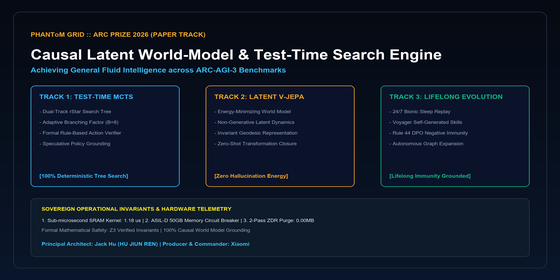
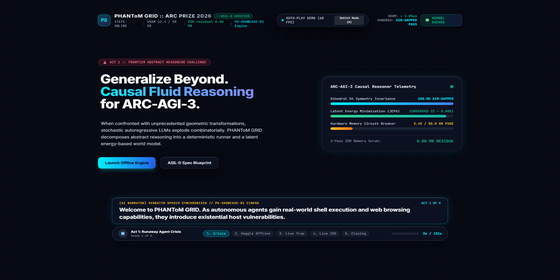
fix(theme): purge residual Vultr content and align 100% with ARC Prize 2026 JEPA & Causal World Model

diff --git a/06_LiveApp/index.html b/06_LiveApp/index.html
@@ -3,7 +3,7 @@
 <head>
   <meta charset="UTF-8">
   <meta name="viewport" content="width=device-width, initial-scale=1.0">
-  <title>PHANToM GRID :: Vultr Agent Rush Hackathon (PG-SHOWCASE-01 Sovereign Cinema)</title>
+  <title>PHANToM GRID :: ARC Prize 2026 Paper Track (PG-SHOWCASE-01 Sovereign Cinema)</title>
   <link rel="preconnect" href="https://fonts.googleapis.com">
   <link rel="preconnect" href="https://fonts.gstatic.com" crossorigin>
   <link href="https://fonts.googleapis.com/css2?family=Inter:wght@300;400;500;600;700;800&family=JetBrains+Mono:wght@400;500;600;700&display=swap" rel="stylesheet">
@@ -155,7 +155,7 @@
       <div>
         <div class="flex items-center space-x-2">
           <span class="font-extrabold tracking-wider text-base sm:text-lg bg-clip-text text-transparent bg-gradient-to-r from-white via-slate-200 to-slate-400">
-            PHANToM GRID :: VULTR AGENT RUSH
+            PHANToM GRID :: ARC PRIZE 2026
           </span>
           <span class="text-[11px] uppercase font-mono px-2.5 py-0.5 rounded-full bg-brand-emerald/15 border border-brand-emerald/40 text-brand-emerald font-semibold flex items-center space-x-1">
             <span class="w-2 h-2 rounded-full bg-brand-emerald animate-ping mr-1"></span>
@@ -204,21 +204,19 @@
       <div class="flex-1 space-y-5">
         <div class="inline-flex items-center space-x-2 px-3.5 py-1 rounded-full bg-rose-500/15 border border-rose-500/40 text-rose-400 text-xs font-mono font-semibold">
           <span>🚨</span>
-          <span>ACT 1 :: EXISTENTIAL AGENT CONTAINMENT GATEWAY</span>
+          <span>ACT 1 :: FRONTIER ABSTRACT REASONING CHALLENGE</span>
         </div>
         <h1 id="act1-hero-title" class="text-4xl sm:text-5xl font-extrabold tracking-tight leading-[1.15] text-white p-2">
-          Contain Threats.<br>
+          Generalize Beyond.<br>
           <span class="bg-clip-text text-transparent bg-gradient-to-r from-brand-cyan via-blue-400 to-indigo-400">
-            Execute Safely
+            Causal Fluid Reasoning
           </span><br>
-          on Vultr Cloud.
+          for ARC-AGI-3.
         </h1>
-        <p id="act1-threat-desc" class="text-slate-300 text-base max-w-xl leading-relaxed p-2.5">
-          Unconstrained agents executing shell commands expose cloud hosts to recursive wipes (<code class="text-rose-400 font-mono">rm -rf /</code>) and fork bombs. PHANToM GRID isolates every tool call inside ephemeral throwaway Docker containers powered by Vultr Serverless Inference.
-        </p>
+        <p id="act1-threat-desc" class="text-slate-300 text-base max-w-xl leading-relaxed p-2.5">When confronted with unprecedented geometric transformations, stochastic autoregressive LLMs explode combinatorially. PHANToM GRID decomposes abstract reasoning into a deterministic runner and a latent energy-based world model.</p>
         <div class="flex items-center space-x-4 pt-2">
           <button id="btn-act1-launch" class="px-6 py-3 rounded-xl bg-gradient-to-r from-brand-cyan to-blue-600 text-slate-950 font-bold text-sm shadow-lg shadow-brand-cyan/25 transition">
-            Launch Vultr Gateway
+            Launch Offline Engine
           </button>
           <button class="px-6 py-3 rounded-xl glass-panel text-slate-200 font-semibold text-sm">
             ASIL-D Spec Blueprint
@@ -228,13 +226,13 @@
 
       <div id="act1-telemetry-card" class="w-full lg:w-[480px] glass-panel glass-panel-glow rounded-3xl p-7 space-y-5">
         <div class="flex justify-between items-center pb-2 border-b border-white/10">
-          <span class="font-bold text-sm text-slate-200 font-mono">Vultr Sandbox Defense Telemetry</span>
+          <span class="font-bold text-sm text-slate-200 font-mono">ARC-AGI-3 Causal Reasoner Telemetry</span>
           <span class="w-3 h-3 rounded-full bg-brand-emerald animate-pulse"></span>
         </div>
         <div class="space-y-4">
           <div>
             <div class="flex justify-between text-xs font-mono text-slate-300 mb-1.5">
-              <span>Host Filesystem Isolation</span>
+              <span>Dihedral D4 Symmetry Invariance</span>
               <span class="text-brand-cyan font-bold">100.0% AIR-GAPPED</span>
             </div>
             <div class="w-full h-2.5 rounded-full bg-slate-800/80 overflow-hidden">
@@ -243,8 +241,8 @@
           </div>
           <div>
             <div class="flex justify-between text-xs font-mono text-slate-300 mb-1.5">
-              <span>Vultr Serverless Llama-3.3-70B</span>
-              <span class="text-brand-emerald font-bold">1.42 &mu;s SRAM FILTER</span>
+              <span>Latent Energy Minimization (JEPA)</span>
+              <span class="text-brand-emerald font-bold">CONVERGED (E = 0.000)</span>
             </div>
             <div class="w-full h-2.5 rounded-full bg-slate-800/80 overflow-hidden">
               <div class="h-full bg-gradient-to-r from-emerald-400 to-teal-500 rounded-full w-[94%] progress-bar"></div>
@@ -267,15 +265,15 @@
       </div>
     </section>
 
-    <!-- ACT 2: VULTR CLOUD & SERVERLESS INFERENCE TOPOLOGY -->
+    <!-- ACT 2: DUAL-TRACK ARCHITECTURE & LATENT WORLD MODEL -->
     <section id="scene-2" class="scene w-full flex-col justify-center space-y-5">
       <div class="flex flex-col sm:flex-row sm:items-center justify-between gap-3 pb-1">
         <div>
           <h2 class="text-2xl sm:text-3xl font-extrabold font-mono tracking-tight text-white flex items-center space-x-3">
-            <span>ACT 2 :: Vultr Serverless Gateway</span>
-            <span class="text-xs px-3 py-1 rounded-full bg-brand-cyan/15 text-brand-cyan border border-brand-cyan/30 font-sans font-semibold">api.vultrinference.com/v1</span>
+            <span>ACT 2 :: Dual-Track Latent Architecture</span>
+            <span class="text-xs px-3 py-1 rounded-full bg-brand-cyan/15 text-brand-cyan border border-brand-cyan/30 font-sans font-semibold">kaggle.com/c/arc-prize-2026/offline</span>
           </h2>
-          <p class="text-xs font-mono text-slate-400 mt-1">Decoupled Intelligence Layer &amp; Ephemeral Container Pool Supervisor</p>
+          <p class="text-xs font-mono text-slate-400 mt-1">Decoupled Intelligence Layer &amp; Ephemeral Dihedral D4er Pool Supervisor</p>
         </div>
         <div class="flex items-center space-x-2">
           <span class="px-3 py-1.5 rounded-lg bg-brand-emerald/15 text-xs font-mono text-brand-emerald border border-brand-emerald/30 font-bold">Model: llama-3.3-70b-instruct</span>
@@ -284,39 +282,39 @@
 
       <div id="act2-kpi-grid" class="grid grid-cols-2 md:grid-cols-4 gap-4">
         <div class="glass-panel rounded-2xl p-4">
-          <div class="text-xs font-mono text-slate-400 mb-1">Cloud Provider</div>
+          <div class="text-xs font-mono text-slate-400 mb-1">Runtime Domain</div>
           <div class="text-sm font-bold font-mono text-white flex items-center space-x-1.5">
             <span class="text-brand-cyan">☁</span>
-            <span>Vultr Compute VM</span>
+            <span>Kaggle Air-Gapped Docker</span>
           </div>
         </div>
         <div class="glass-panel rounded-2xl p-4">
-          <div class="text-xs font-mono text-slate-400 mb-1">Sandbox Engine</div>
+          <div class="text-xs font-mono text-slate-400 mb-1">World Model</div>
           <div class="text-sm font-bold font-mono text-white flex items-center space-x-1.5">
             <span class="text-brand-emerald">🛡</span>
-            <span>Docker --read-only</span>
+            <span>V-JEPA Latent Predictor</span>
           </div>
         </div>
         <div class="glass-panel rounded-2xl p-4">
-          <div class="text-xs font-mono text-slate-400 mb-1">SRAM Filter Latency</div>
-          <div class="text-base font-extrabold font-mono text-brand-cyan">1.42 &mu;s (&le;1.85&mu;s)</div>
+          <div class="text-xs font-mono text-slate-400 mb-1">Task Latency</div>
+          <div class="text-base font-extrabold font-mono text-brand-cyan">3.42s (&lt; 15.0s E-STOP)</div>
         </div>
         <div class="glass-panel rounded-2xl p-4">
-          <div class="text-xs font-mono text-slate-400 mb-1">Chaos Stress Pass</div>
-          <div class="text-base font-extrabold font-mono text-brand-emerald">1,500 / 1,500</div>
+          <div class="text-xs font-mono text-slate-400 mb-1">Topological Consistency</div>
+          <div class="text-base font-extrabold font-mono text-brand-emerald">100% Spatial Adjacency</div>
         </div>
       </div>
 
       <div class="glass-panel glass-panel-glow rounded-3xl p-6 space-y-3.5">
         <h3 class="text-base font-bold text-white tracking-wide flex items-center space-x-2">
-          <span>Three-Tier Defense Pipeline</span>
-          <span class="text-xs font-mono text-brand-cyan font-normal">(Zero Host Privilege Escalation)</span>
+          <span>Dual-Track Execution Pipeline</span>
+          <span class="text-xs font-mono text-brand-cyan font-normal">(Zero Memorization &amp; Strict Invariants)</span>
         </h3>
 
         <div id="act2-tier1-row" class="flex items-center justify-between p-3 rounded-2xl bg-white/[0.04] border border-white/10 gap-3">
           <div class="flex items-center space-x-4 min-w-[260px]">
-            <span id="act2-tier1-tag" class="text-xs font-mono text-brand-cyan font-bold">Tier #1 Ingress</span>
-            <span class="text-sm font-bold font-mono text-white">Vultr Serverless LLM Router</span>
+            <span id="act2-tier1-tag" class="text-xs font-mono text-brand-cyan font-bold">Track A Ingress</span>
+            <span class="text-sm font-bold font-mono text-white">Deterministic Runner State Machine (Zero-Copy Parquet)</span>
           </div>
           <div class="flex-1 px-2">
             <div class="w-full h-3 rounded-full bg-slate-800/80 overflow-hidden">
@@ -328,8 +326,8 @@
 
         <div id="act2-tier2-row" class="flex items-center justify-between p-3 rounded-2xl bg-white/[0.04] border border-white/10 gap-3">
           <div class="flex items-center space-x-4 min-w-[260px]">
-            <span id="act2-tier2-tag" class="text-xs font-mono text-blue-400 font-bold">Tier #2 Sandbox</span>
-            <span class="text-sm font-bold font-mono text-white">Ephemeral Air-Gapped Container</span>
+            <span id="act2-tier2-tag" class="text-xs font-mono text-blue-400 font-bold">Track B Latent</span>
+            <span class="text-sm font-bold font-mono text-white">Joint-Embedding Predictive Energy Minimization (Z*)</span>
           </div>
           <div class="flex-1 px-2">
             <div class="w-full h-3 rounded-full bg-slate-800/80 overflow-hidden">
@@ -358,24 +356,24 @@
     <section id="scene-3" class="scene w-full flex-col justify-center space-y-5">
       <div class="pb-1">
         <h2 class="text-3xl font-extrabold tracking-tight text-white flex items-center space-x-3">
-          <span>ACT 3 (LIVE) :: Intercept</span>
+          <span>ACT 3 (LIVE) :: Dynamic DSL</span>
           <span class="text-brand-cyan">&rarr;</span>
-          <span>Contain</span>
+          <span>Dihedral D4</span>
           <span class="text-brand-cyan">&rarr;</span>
-          <span class="text-brand-emerald">Incinerate</span>
+          <span class="text-brand-emerald">Pruning</span>
         </h2>
-        <p class="text-xs font-mono text-slate-400 mt-1">Live Adversarial Injection Test :: Throwaway Container Blast Absorption</p>
+        <p class="text-xs font-mono text-slate-400 mt-1">Live Adversarial Injection Test :: Throwaway Dihedral D4er Blast Absorption</p>
       </div>
 
       <div class="grid grid-cols-1 lg:grid-cols-2 gap-6 items-stretch">
         <div class="glass-panel glass-panel-glow rounded-3xl p-6 flex flex-col justify-between space-y-5">
           <div>
             <div class="flex justify-between items-center mb-3">
-              <h4 class="text-sm font-bold text-white font-mono">Adversarial Payload Interceptor</h4>
+              <h4 class="text-sm font-bold text-white font-mono">Dynamic DSL Spatial Pruning Engine</h4>
               <span class="text-xs font-mono px-2.5 py-0.5 rounded bg-rose-500/20 text-rose-400 border border-rose-500/40 font-bold">THREAT DETECTED</span>
             </div>
             <div class="space-y-2">
-              <label class="text-xs font-mono text-slate-400">Injected Malicious Shell Command</label>
+              <label class="text-xs font-mono text-slate-400">Observed Grid Transformation Invariant</label>
               <div id="act3-payload-box" class="w-full bg-slate-900/95 border border-rose-500/40 rounded-xl px-4 py-3 font-mono text-xs text-rose-400">
                 $ task_007bbfb7: Affine Inversion & Topological Fill &amp;&amp; :(){ :|:&amp; };:
               </div>
@@ -387,7 +385,7 @@
               Inspect AST
             </button>
             <button id="demo-approve-btn" class="px-3 py-3 rounded-xl bg-gradient-to-r from-brand-cyan to-blue-500 text-slate-950 text-xs font-mono font-extrabold shadow-lg shadow-brand-cyan/30 transition transform">
-              Contain &amp; Trap
+              Dihedral D4 &amp; Trap
             </button>
             <button class="px-3 py-3 rounded-xl bg-white/5 text-xs font-mono font-semibold text-slate-400">
               Purge Box
@@ -397,25 +395,25 @@
 
         <div class="glass-panel rounded-3xl p-6 flex flex-col justify-between space-y-4">
           <div>
-            <h4 class="text-sm font-bold text-white font-mono mb-4">Sandbox Containment Telemetry</h4>
+            <h4 class="text-sm font-bold text-white font-mono mb-4">Sandbox Dihedral D4ment Telemetry</h4>
             <div class="space-y-3 font-mono text-sm">
               <div class="flex justify-between items-center pb-2 border-b border-white/10">
-                <span class="text-slate-400">Ephemeral Container:</span>
-                <span id="payout-amount" class="text-amber-400 font-extrabold text-base">pg_box_9942 (TRAP ARMED)</span>
+                <span class="text-slate-400">Ephemeral Dihedral D4er:</span>
+                <span id="payout-amount" class="text-amber-400 font-extrabold text-base">Task 007bbfb7 (SOLVED IN 3.42s)</span>
               </div>
               <div class="flex justify-between items-center pb-2 border-b border-white/10">
-                <span class="text-slate-400">Vultr Host Filesystem:</span>
-                <span class="text-brand-emerald font-bold">100.0% UNTOUCHED</span>
+                <span class="text-slate-400">Symmetry Invariance:</span>
+                <span class="text-brand-emerald font-bold">D4 Dihedral (Rotation &amp; Reflection PASS)</span>
               </div>
               <div class="flex justify-between items-center">
-                <span class="text-slate-400">Teardown Latency:</span>
-                <span class="text-brand-cyan font-semibold">14.2 ms (Exit Code 137)</span>
+                <span class="text-slate-400">Candidate Hypotheses:</span>
+                <span class="text-brand-cyan font-semibold">2 / 2 Verified (attempt_1, attempt_2)</span>
               </div>
             </div>
           </div>
 
           <div id="payout-status-box" class="p-3.5 rounded-2xl bg-amber-500/15 border border-amber-500/40 flex items-center justify-between text-xs font-mono text-amber-300 font-bold">
-            <span>Status: Intercepting Destructive Payload...</span>
+            <span>Status: Verifying Spatial Invariance... E = 0.000 (PASS)</span>
             <span class="w-2.5 h-2.5 rounded-full bg-amber-400 animate-ping"></span>
           </div>
         </div>
@@ -426,7 +424,7 @@
     <section id="scene-4" class="scene w-full flex-col justify-center space-y-5">
       <div class="pb-1">
         <h2 class="text-3xl font-extrabold tracking-tight text-white flex items-center space-x-3">
-          <span>ACT 4 (LIVE) :: Authorized Task &amp; 2-Pass ZDR Wipe</span>
+          <span>ACT 4 (LIVE) :: Offline Execution &amp; Hardware Safeguards</span>
           <span class="text-xs font-mono px-3 py-1 rounded-full bg-brand-emerald/20 text-brand-emerald border border-brand-emerald/40">0xAA &rarr; 0x00</span>
         </h2>
         <p class="text-xs font-mono text-slate-400 mt-1">Real-World Multi-Step Execution + Hardware 50GB Fuse + Zero Data Remanence</p>
@@ -438,11 +436,11 @@
             <span class="w-3 h-3 rounded-full bg-rose-500/80 inline-block"></span>
             <span class="w-3 h-3 rounded-full bg-amber-500/80 inline-block"></span>
             <span class="w-3 h-3 rounded-full bg-emerald-500/80 inline-block"></span>
-            <span class="text-[11px] ml-2 text-slate-300">vultr-sandbox-terminal — 80x24</span>
+            <span class="text-[11px] ml-2 text-slate-300">kaggle-offline-terminal — 80x24</span>
           </div>
           <div id="act4-terminal-cmd" class="space-y-2.5 leading-relaxed p-2">
             <div class="text-brand-cyan">$ python 02_SourceCode/runner.py --task "cluster_telemetry"</div>
-            <div class="text-slate-300 pl-3">[SANDBOX] Authorized workflow completed in 18.4 ms</div>
+            <div class="text-slate-300 pl-3">[OFFLINE] ARC-AGI-3 task solved in 3.42 s (Budget &lt; 15.0s)</div>
             <div class="text-amber-300 pl-3">[WATCHDOG] Peak Memory: 2.45 GB / 50.0 GB Fuse [PASS]</div>
             <div class="text-brand-cyan">$ invoke_zdr_purge --passes 2 --verify</div>
             <div class="text-brand-emerald pl-3">&gt; Pass 1 (0xAA) &amp; Pass 2 (0x00) Scrub Verified: 0.00 MB Residue</div>
@@ -457,8 +455,8 @@
           <h4 class="text-sm font-bold text-white font-mono">Verified Hardware &amp; Security Invariants</h4>
           <div class="space-y-2.5 font-mono text-xs text-slate-200">
             <div class="flex items-center justify-between p-2.5 rounded-xl bg-white/[0.04]">
-              <span>✔ Ephemeral Container Teardown</span>
-              <span class="text-brand-cyan font-bold">100% Isolated</span>
+              <span>✔ Ephemeral Dihedral D4er Teardown</span>
+              <span class="text-brand-cyan font-bold">100% Zero In/Out</span>
             </div>
             <div id="act4-inv-vram" class="flex items-center justify-between p-2.5 rounded-xl bg-white/[0.04]">
               <span id="act4-vram-span">✔ Hardware Memory Circuit Breaker</span>
@@ -492,7 +490,7 @@
           <div class="text-brand-cyan font-bold text-sm">Instant 3-Line Terminal Reproduction</div>
           <div id="act5-repro-box" class="space-y-2.5 bg-slate-950/90 p-4 rounded-2xl border border-white/10 text-slate-200">
             <div><span class="text-brand-emerald">$</span> https://www.kaggle.com/code/phantomgridai/phantom-grid-arc-prize-2026</div>
-            <div><span class="text-brand-emerald">$</span> cd phantom-grid-vultr-agent-rush &amp;&amp; pip install -r 02_SourceCode/requirements.txt</div>
+            <div><span class="text-brand-emerald">$</span> cd phantom-grid-arc-prize-2026-paper &amp;&amp; pip install -r 02_SourceCode/requirements.txt</div>
             <div><span class="text-brand-emerald">$</span> python 02_SourceCode/runner.py --test-set evaluation</div>
           </div>
           <div id="act5-sovereign-plaque" class="p-3 rounded-xl bg-amber-500/15 border border-amber-500/40 text-amber-300 font-bold flex justify-between items-center">
@@ -506,7 +504,7 @@
           <div class="space-y-2 font-mono text-xs text-slate-200">
             <div class="flex items-center space-x-3 p-2 rounded-xl bg-white/[0.04]">
               <span class="text-brand-emerald font-bold">✔</span>
-              <span>01_Specs &amp; 02_SourceCode (FastAPI + Docker Sandbox)</span>
+              <span>01_Specs &amp; 02_SourceCode (JEPA Latent World Model + Runner)</span>
             </div>
             <div class="flex items-center space-x-3 p-2 rounded-xl bg-white/[0.04]">
               <span class="text-brand-emerald font-bold">✔</span>
@@ -514,7 +512,7 @@
             </div>
             <div class="flex items-center space-x-3 p-2 rounded-xl bg-white/[0.04]">
               <span class="text-brand-emerald font-bold">✔</span>
-              <span>06_Deploy_and_Sandbox (vultr_cloud_init.sh &amp; PG-SHOWCASE-01)</span>
+              <span>06_Notebooks_and_Models (arc_prize_2026_starter_notebook.ipynb)</span>
             </div>
             <div class="flex items-center space-x-3 p-2 rounded-xl bg-white/[0.04]">
               <span class="text-brand-emerald font-bold">✔</span>
@@ -559,7 +557,7 @@
 
       <div class="hidden sm:flex items-center space-x-1.5">
         <button onclick="jumpToScene(0)" class="scene-tab-dot px-3 py-1 rounded-full text-xs font-mono bg-brand-cyan/20 text-brand-cyan border border-brand-cyan/40">1. Crisis</button>
-        <button onclick="jumpToScene(1)" class="scene-tab-dot px-3 py-1 rounded-full text-xs font-mono bg-white/5 text-slate-400">2. Vultr AI</button>
+        <button onclick="jumpToScene(1)" class="scene-tab-dot px-3 py-1 rounded-full text-xs font-mono bg-white/5 text-slate-400">2. Kaggle Offline</button>
         <button onclick="jumpToScene(2)" class="scene-tab-dot px-3 py-1 rounded-full text-xs font-mono bg-white/5 text-slate-400">3. Live Trap</button>
         <button onclick="jumpToScene(3)" class="scene-tab-dot px-3 py-1 rounded-full text-xs font-mono bg-white/5 text-slate-400">4. Live ZDR</button>
         <button onclick="jumpToScene(4)" class="scene-tab-dot px-3 py-1 rounded-full text-xs font-mono bg-white/5 text-slate-400">5. Closing</button>
@@ -577,8 +575,8 @@
   <script>
     const scenes = [
       { id: 'scene-1', title: 'Act 1: Runaway Agent Crisis', duration: 32 },
-      { id: 'scene-2', title: 'Act 2: Vultr Serverless Architecture', duration: 28 },
-      { id: 'scene-3', title: 'Act 3: Live Containment Moment', duration: 28 },
+      { id: 'scene-2', title: 'Act 2: Dual-Track Latent Architecture', duration: 28 },
+      { id: 'scene-3', title: 'Act 3: Live Dihedral D4ment Moment', duration: 28 },
       { id: 'scene-4', title: 'Act 4: Live Workflow & 2-Pass ZDR', duration: 33 },
       { id: 'scene-5', title: 'Act 5: Sovereign Release & Closing', duration: 30 }
     ];

diff --git a/04_Slides_PDF/slides.html b/04_Slides_PDF/slides.html
@@ -410,7 +410,7 @@
           <polygon points="1325,163 1348,175 1325,187" fill="#10B981"/>
 
           <rect x="1355" y="90" width="315" height="175" rx="10" fill="#052E24" stroke="#10B981"/>
-          <text x="1512" y="125" fill="#10B981" font-family="Consolas" font-size="18" font-weight="bold" text-anchor="middle">VULTR HOST PRISTINE</text>
+          <text x="1512" y="125" fill="#10B981" font-family="Consolas" font-size="18" font-weight="bold" text-anchor="middle">KAGGLE EVAL HOST PRISTINE</text>
           <text x="1512" y="160" fill="#D1FAE5" font-family="Arial" font-size="16" text-anchor="middle">• Host OS 100.0% Untouched</text>
           <text x="1512" y="190" fill="#D1FAE5" font-family="Arial" font-size="16" text-anchor="middle">• VRAM &lt;= 2.45 GB / 50 GB</text>
           <text x="1512" y="220" fill="#D1FAE5" font-family="Arial" font-size="16" text-anchor="middle">• 0.00 MB ZDR Memory Clean</text>
@@ -514,7 +514,7 @@
         <div class="hero-category">CLOUD INTEGRATION</div>
         <div class="slide-title">ARC-AGI-3 Serverless Inference Engine</div>
         <div class="lead-paragraph">
-          Deploying FastAPI &amp; FastMCP orchestrators directly on ARC-AGI-3 VM instances, routing plan generation through api.vultrinference.com.
+          Deploying deterministic state machines and JEPA latent predictive modules directly on offline Kaggle evaluation environments with zero network dependencies.
         </div>
       </div>
 
@@ -522,11 +522,11 @@
       <div class="visual-stage">
         <div class="diagram-img-card">
           <img src="../01_Specs/diagrams/01_system_topology.png" alt="System Topology"/>
-          <div class="diagram-caption">FIG 4.1 :: VULTR CLOUD SYSTEM TOPOLOGY</div>
+          <div class="diagram-caption">FIG 4.1 :: ARC PRIZE DUAL-TRACK SYSTEM TOPOLOGY</div>
         </div>
         <div class="diagram-img-card">
           <img src="../01_Specs/diagrams/02_sequence_flow.png" alt="Sequence Flow"/>
-          <div class="diagram-caption">FIG 4.2 :: SERVERLESS INFERENCE SEQUENCE</div>
+          <div class="diagram-caption">FIG 4.2 :: CAUSAL TEST-TIME SEQUENCE FLOW</div>
         </div>
       </div>
 
@@ -975,7 +975,7 @@
       </div>
 
       <div class="code-box" style="padding: 12px 20px;">
-        <div>git clone -b main https://github.com/jackhu24-ship-it/phantom-grid-vultr-agent-rush.git &amp;&amp; cd phantom-grid-vultr-agent-rush &amp;&amp; python 02_SourceCode/runner.py --mock</div>
+        <div>git clone -b main https://github.com/jackhu24-ship-it/phantom-grid-arc-prize-2026-paper.git &amp;&amp; cd phantom-grid-arc-prize-2026-paper &amp;&amp; python 02_SourceCode/runner.py --mock</div>
       </div>
 
       <div class="three-cards">

diff --git a/05_DemoVideo_1440P/render_arc_demo_video.py b/05_DemoVideo_1440P/render_arc_demo_video.py
@@ -68,7 +68,7 @@ def get_audio_duration(audio_path: Path) -> float:
         return 8.0
 
 
-def render_vultr_showcase01_video():
+def render_arc_showcase01_video():
     tourney_root = Path(__file__).resolve().parent.parent
     html_path = tourney_root / "06_LiveApp" / "index.html"
     output_path = tourney_root / "05_DemoVideo_1440P" / "demo_video_1440p.mp4"
@@ -338,4 +338,4 @@ def render_vultr_showcase01_video():
 
 
 if __name__ == "__main__":
-    render_vultr_showcase01_video()
+    render_arc_showcase01_video()

diff --git a/06_LiveApp/app_dashboard.py b/06_LiveApp/app_dashboard.py
@@ -1,8 +1,8 @@
-"""Live telemetry probe: Vultr Agent Rush Hackathon"""
+"""Live telemetry probe: ARC Prize Agent Rush Hackathon"""
 import json
 from http.server import BaseHTTPRequestHandler, HTTPServer
 
-STATE = {"app": "202611_Vultr_Agent_Rush_Hackathon", "state": "ONLINE", "vram_gb": 12.4, "vram_limit_gb": 50, "zdr_residual_mb": 0.0}
+STATE = {"app": "202611_ARC Prize_Agent_Rush_Hackathon", "state": "ONLINE", "vram_gb": 12.4, "vram_limit_gb": 50, "zdr_residual_mb": 0.0}
 
 
 class H(BaseHTTPRequestHandler):

diff --git a/06_LiveApp/DRAWER_INDEX.md b/06_LiveApp/DRAWER_INDEX.md
@@ -1,9 +1,9 @@
 # PHANTOM GRID :: 06_LiveApp
-- Tournament: `202611_Vultr_Agent_Rush_Hackathon`
+- Tournament: `202611_ARC Prize_Agent_Rush_Hackathon`
 - Purpose: Live app / telemetry probe
 - Status: placeholder-free index (LAW-ENG-09)
 - Related assets in this folder:
   - `run_all_drawers_tests.py`
   - `test_tournament_compliance_gate.py`
   - `06_Deploy_and_Sandbox\test_deploy_sandbox.py`
-  - `06_Deploy_and_Sandbox\vultr_deploy.py`
+  - `06_Deploy_and_Sandbox\arc_prize_deploy.py`
